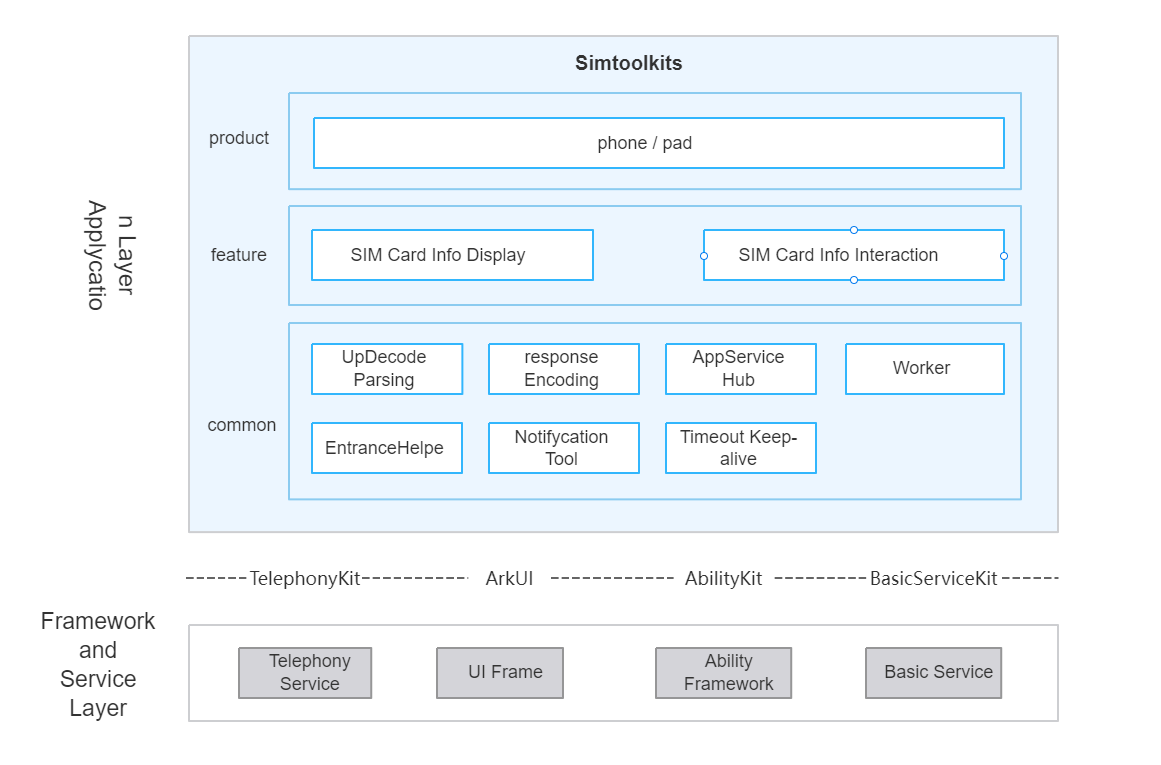
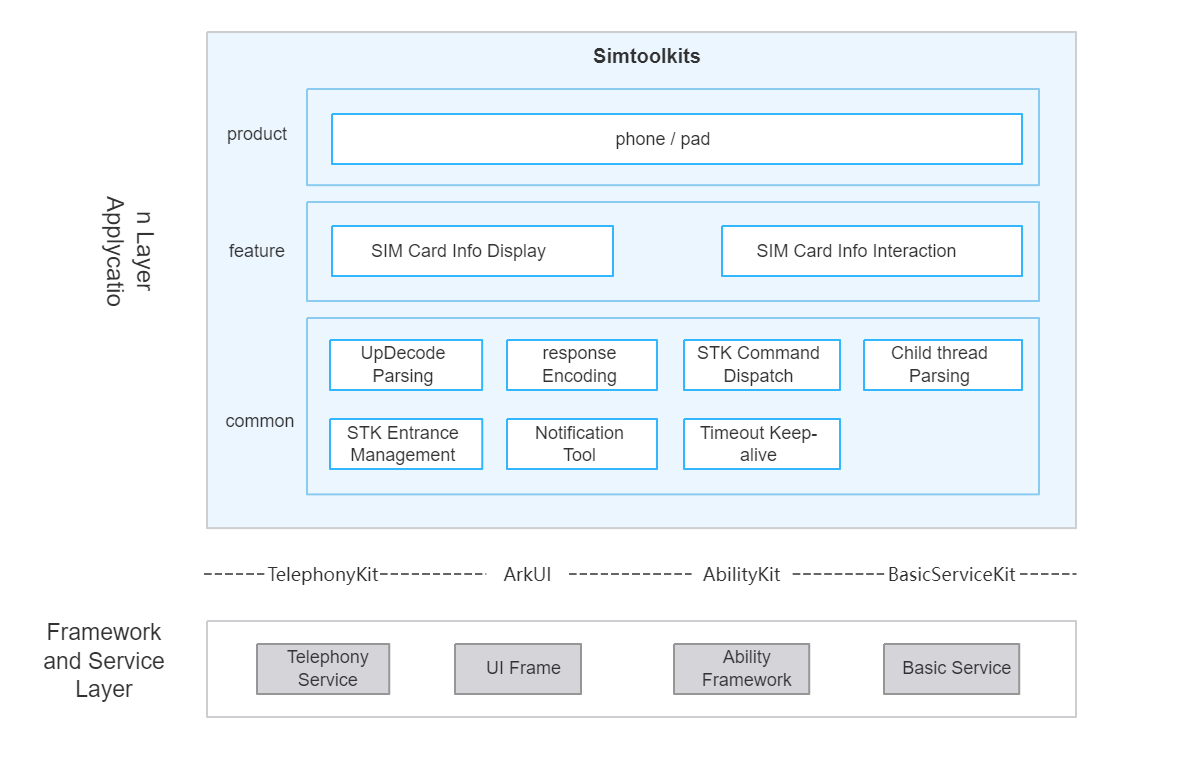
提交README以及OAT文件的修改

diff --git a/README_en.md b/README_en.md
@@ -25,6 +25,7 @@ This is a pre-installed system application. It supports single-SIM, dual-SIM, an
 
 > **Note**: This repository is the STK **application layer**. Command parsing, session dispatch, and Terminal Response encoding live in the common layer (`AppService Hub` / `UpDecode Parsing` / `Response Encoding` / `Worker`).
 
+
 ### Terminology
 
 | Term | Full name | Description |
@@ -32,7 +33,7 @@ This is a pre-installed system application. It supports single-SIM, dual-SIM, an
 | Proactive Command | — | A business instruction the SIM issues to the terminal on its own initiative (for example set up menu, display text, get input, BIP open channel); this app parses it and drives the UI |
 | Terminal Response | — | The message that returns command execution results (success / failure / user cancel, and so on) from the terminal to the SIM |
 | Envelope | — | An event or user selection the terminal reports to the SIM (for example menu item selection); used with Terminal Response to complete a session |
-| BIP | Bearer Independent Protocol | STK data-channel capability independent of the bearer, defined in 3GPP TS 31.111; includes `OPEN_CHANNEL`, `CLOSE_CHANNEL`, `RECEIVE_DATA`, `SEND_DATA`, `GET_CHANNEL_STATUS`, and related commands. This app mainly shows Alpha ID confirmation / prompts; link setup and transfer run in Modem / RIL |
+| BIP | Bearer Independent Protocol | STK data-channel capability independent of the bearer, defined in 3GPP TS 31.124 V14.3.0; includes `OPEN_CHANNEL`, `CLOSE_CHANNEL`, `RECEIVE_DATA`, `SEND_DATA`, `GET_CHANNEL_STATUS`, and related commands. This app mainly shows Alpha ID confirmation / prompts; link setup and transfer run in Modem / RIL |
 | Alpha ID | — | Human-readable prompt text carried in a command, shown to the user in dialogs, Toast, and similar UI |
 | TLV | Tag-Length-Value | Binary encoding structure for STK commands and responses; the common layer `upDecode` / `responseData` parses and encodes it |
 
@@ -51,7 +52,7 @@ The overall design can be divided into a product layer, a feature layer, and a c
 | ----- | ------------------------- | ----------- |
 | Product | phone / pad | Supports phone and tablet form factors |
 | Feature | `pages`, `model/upDecode` | SIM Card Info Display, SIM Card Info Interaction |
-| Common | `model/upDecode`, `model/responseData`, `model` (SimToolKitAppService), `workers`, `common/helper` (EntranceHelper), `common/utils` (NotificationUtils), `common/helper` (CustTimeOutHelper) | UpDecode Parsing, Response Encoding, AppService Hub, Worker, EntranceHelper, Notification Tool, Timeout Keep-alive |
+| Common | `model/upDecode`, `model/responseData`, `model` (SimToolKitAppService), `workers`, `common/helper` (EntranceHelper), `common/utils` (NotificationUtils), `common/helper` (CustTimeOutHelper) | UpDecode Parsing, Response Encoding, STK Command Dispatch, Worker Parsing, STK Entry Management, Notification Tool, Timeout Keep-alive |
 
 Modules:
 
@@ -114,19 +115,19 @@ Modules:
       <td>Encode Terminal Response / Envelope and return via TelephonyKit</td>
     </tr>
     <tr>
-      <td>AppService Hub</td>
+      <td>STK Command Dispatch</td>
       <td><code>model</code> (SimToolKitAppService)</td>
-      <td>STK command hub: dispatch by type to pages / dialogs and drive the response</td>
+      <td>STK command dispatch: dispatch by type to pages / dialogs and drive the response</td>
     </tr>
     <tr>
-      <td>Worker</td>
+      <td>Worker Parsing</td>
       <td><code>workers</code>, <code>common/components</code></td>
       <td>Handles STK commands in hex encoding format</td>
     </tr>
     <tr>
-      <td>EntranceHelper</td>
+      <td>STK Entry Management</td>
       <td><code>common/helper</code> (EntranceHelper, SettingsDataHelper)</td>
-      <td>Supports showing / hiding the STK entry in Settings</td>
+      <td>Supports showing / hiding the STK entry in Settings → Mobile network → SIM card management</td>
     </tr>
     <tr>
       <td>Notification Tool</td>
@@ -148,7 +149,7 @@ Modules:
 | Can other apps launch it?   | Yes. `EntryAbility` / `ServiceExtAbility` declare `exported=true`; Telephony and other system components can start them via Want |
 | Launch scenarios            | **Scenario 1 (SIM-initiated):** After the pre-installed app is available, when the SIM issues a proactive command, the Telephony framework starts `ServiceExtAbility` with `action` / `msgCmd` / `slotId` (and related Want params) to deliver the STK event and drive interaction.<br>**Scenario 2 (User from Settings):** When the user opens **Settings → Mobile network → SIM card management → SIM applications**, Settings or `com.ohos.simcardmanagement` starts `EntryAbility` with `slotId` (and optional `pageUrl`) to open the STK main menu for that slot. |
 | Supported Want parameters   | `action` (`COMMON_EVENT_STK_*`), `msgCmd`, `slotId`, `pageUrl`, and so on (see `ServiceExtAbility` / `EntryAbility`) |
-| Cross-process collaboration | Returns command results via TelephonyKit APIs; coordinates Settings entry and dual-SIM launch with `com.ohos.settings` and `com.ohos.simcardmanagement` through Settings / RPC |
+| Cross-process collaboration | Returns command results via TelephonyKit APIs; coordinates STK entry and dual-SIM launch with `com.ohos.settings` and `com.ohos.simcardmanagement` through Settings / RPC |
 
 ## Build
 
@@ -175,7 +176,7 @@ SimToolKits is developed in ArkTS, with UI based on the ArkUI Stage model. The a
 
 ### Developing on Existing Modules
 
-Typical scenarios: customize existing capabilities, such as trimming or adjusting STK command handling, changing UI interaction, or updating Settings entry logic.
+Typical scenarios: customize existing capabilities, such as trimming or adjusting STK command handling, changing UI interaction, or updating STK entry logic.
 
 Modifying or trimming existing modules
 
@@ -231,7 +232,7 @@ switch (upParams.commandType) {
 }
 ```
 
-**Scenario 3: Modify STK entry visibility in Settings**
+**Scenario 3: Modify STK entry visibility**
 
 When the product requires the **Settings → Mobile network → SIM card management → SIM applications** entry to be shown or hidden under different conditions, the entry visibility logic needs to be modified. Examples:
 
@@ -242,7 +243,7 @@ When the product requires the **Settings → Mobile network → SIM card managem
 After the SIM sets up or clears the main menu, the app calls `EntranceHelper.checkIsHaveMainMenu`: based on whether that slot has a cached main menu, it writes Settings, publishes the `stk_entrance` event, and RPCs `com.ohos.settings` to enable / disable the search item. Modify `EntranceHelper`:
 
 ```typescript
-// common/helper/EntranceHelper.ets — refresh Settings entry from main-menu cache
+// common/helper/EntranceHelper.ets — refresh STK entry from main-menu cache
 public async checkIsHaveMainMenu(
   context: common.ServiceExtensionContext | undefined,
   slotId: number
@@ -300,7 +301,7 @@ Common modification entry points:
 | GET_INKEY / GET_INPUT | `entry/src/main/ets/pages/SimToolKitInput.ets` |
 | Confirm / Toast / tone | `entry/src/main/ets/pages/LauncherDialog.ets`, `common/components/` |
 | Command hub | `entry/src/main/ets/model/SimToolKitAppService.ets` |
-| Settings entry | `entry/src/main/ets/common/helper/EntranceHelper.ets` |
+| STK entry | `entry/src/main/ets/common/helper/EntranceHelper.ets` |
 | Shared dialogs / navigation | `entry/src/main/ets/common/components/` |
 
 ### Developing New Feature Capabilities
@@ -470,7 +471,7 @@ Permissions: main permissions required by SimToolKits (see `entry/src/main/modul
 | ohos.permission.VIBRATE | system grant | On SIM `PLAY_TONE` when the command qualifier requests vibration, `TonePlayer` vibrates for the tone duration (see `PlayToneParam.isVibrate`) |
 | ohos.permission.PRIVACY_WINDOW | system grant | On the `GET_INKEY` / `GET_INPUT` page (`SimToolKitInput`), enable window privacy mode so password-style input is not captured by screenshot / screen recording |
 
-> **SIM notes**: Menu entry, notifications, and responses are isolated by `slotId` for dual-SIM / eSIM. Settings entry visibility depends on whether each slot has a cached `SET_UP_MENU` main menu; physical SIM / eSIM mapping is in `EntranceHelper`.
+> **SIM notes**: Menu entry, notifications, and responses are isolated by `slotId` for dual-SIM / eSIM. STK entry visibility depends on whether each slot has a cached `SET_UP_MENU` main menu; physical SIM / eSIM mapping is in `EntranceHelper`.
 
 Supported proactive commands are listed below. For BIP-related commands, the app side mainly shows the Alpha ID prompt text; actual channel setup, data transfer, and SMS bearer execution are in Modem / RIL.
 
